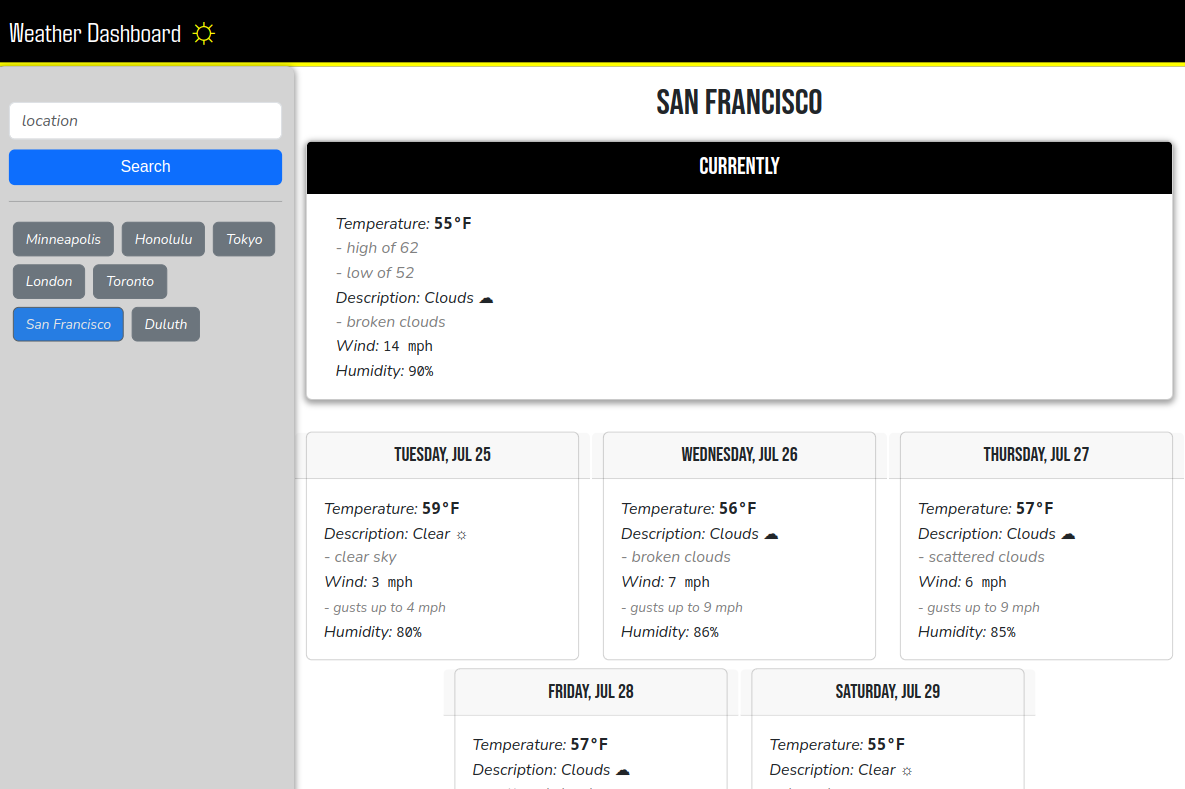
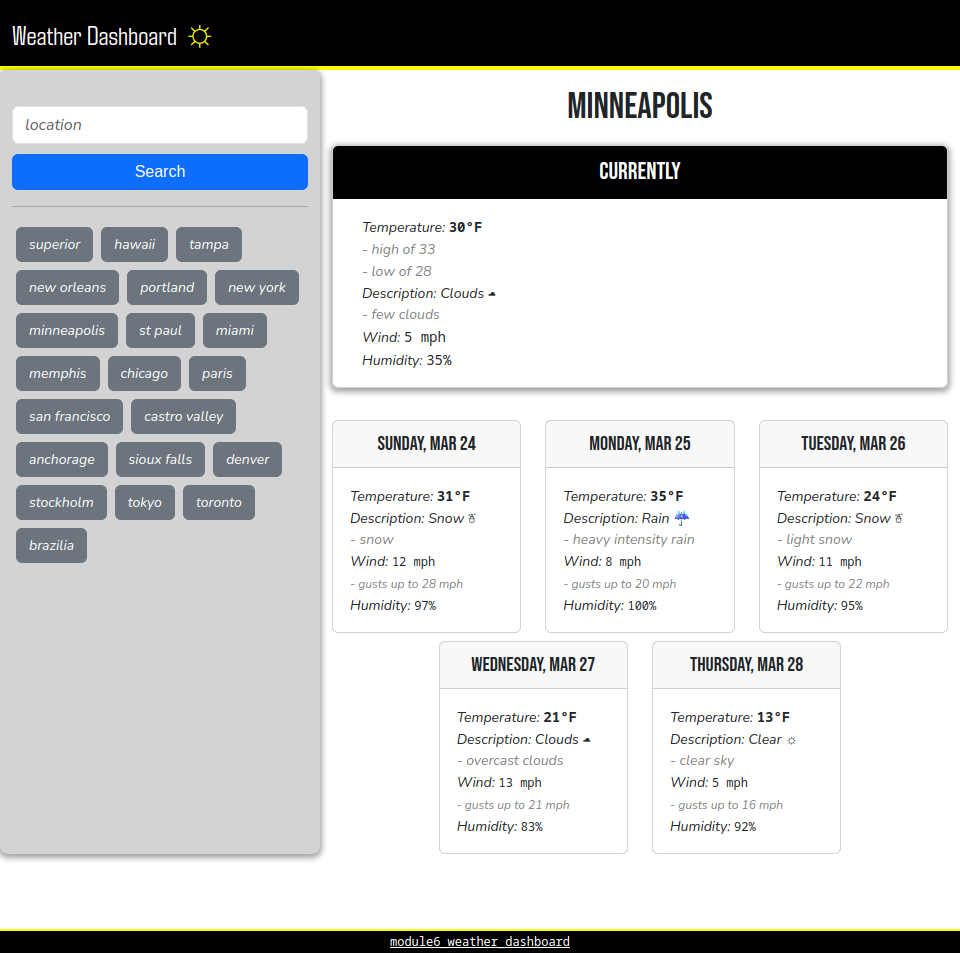
Swapped project-3 "Featured Project" from "tech-blog" to "Weather-Dashboard". Updated "Weather-Dashboard" screenshot.

diff --git a/src/components/Project.jsx b/src/components/Project.jsx
@@ -48,10 +48,10 @@ export default function Project() {
         </MDBCol>
 
         <MDBCol id='project-3' className='project-item'>
-          <h4><a href='https://tech-blog-johntg96-6194751df56d.herokuapp.com/' title='visit deployed application'>tech_blog</a>&nbsp;&nbsp;<a href='https://github.com/johntg96/tech_blog' title='go to GitHub repository'><MDBIcon fab icon='github' /></a></h4>
-          <p>Created using sequelize and express, this application has login/signup functionality and pages generated via Handlebars. This was a homework assignment for coding bootcamp to practice working on connecting databases with session cookies, and dynamically generated static pages.</p>
+          <h4><a href='https://johntg96.github.io/Weather-Dashboard/' title='visit deployed application'>Weather Dashboard</a>&nbsp;&nbsp;<a href='https://github.com/johntg96/Weather-Dashboard/' title='go to GitHub repository'><MDBIcon fab icon='github' /></a></h4>
+          <p>Weather Dashboard fetches weather data from OpenWeatherMap and saves search queries in local storage.</p>
           <div className='d-flex justify-content-center align-content-center' style={{backgroundColor:'gray'}}>
-            <img src='images/screenshot_tech_blog.png' className='project-screenshot'></img>
+            <img src='images/screenshot_weather_dashboard.png' className='project-screenshot'></img>
           </div>
         </MDBCol>
 
